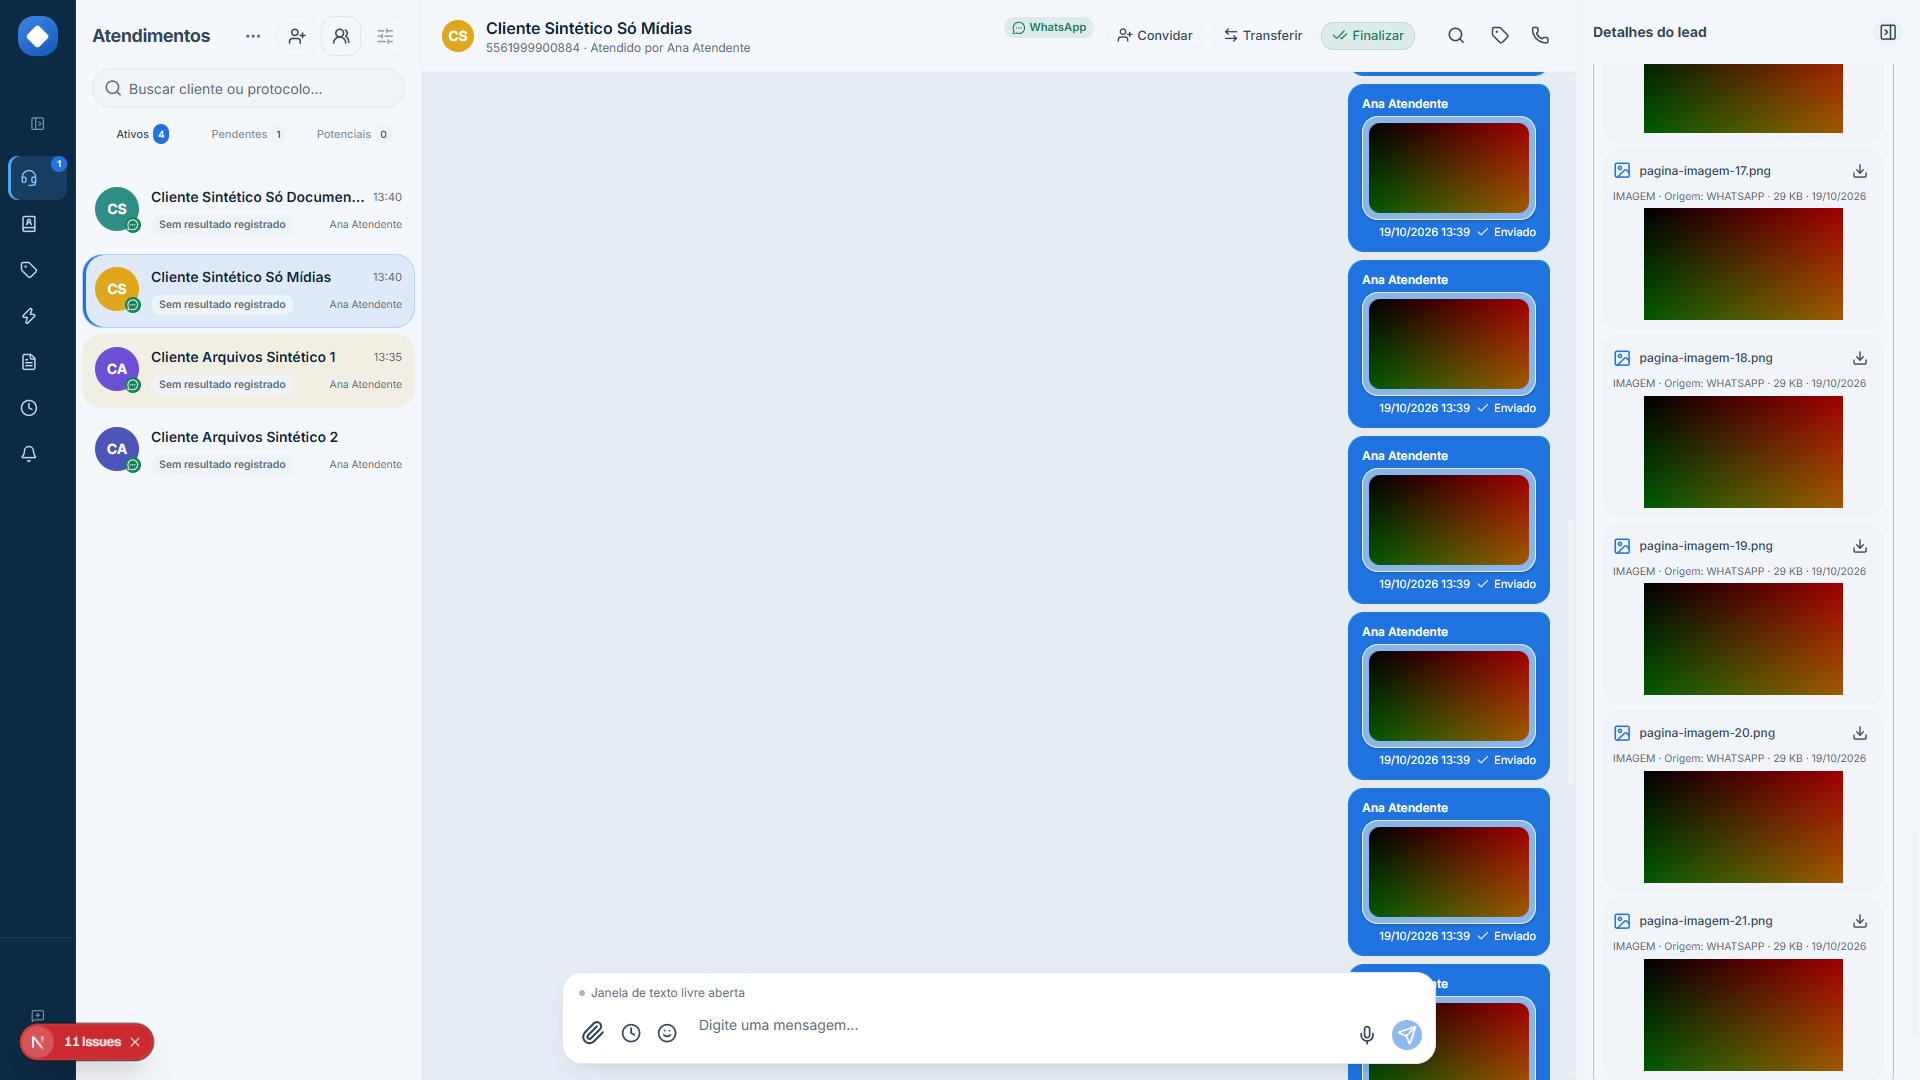
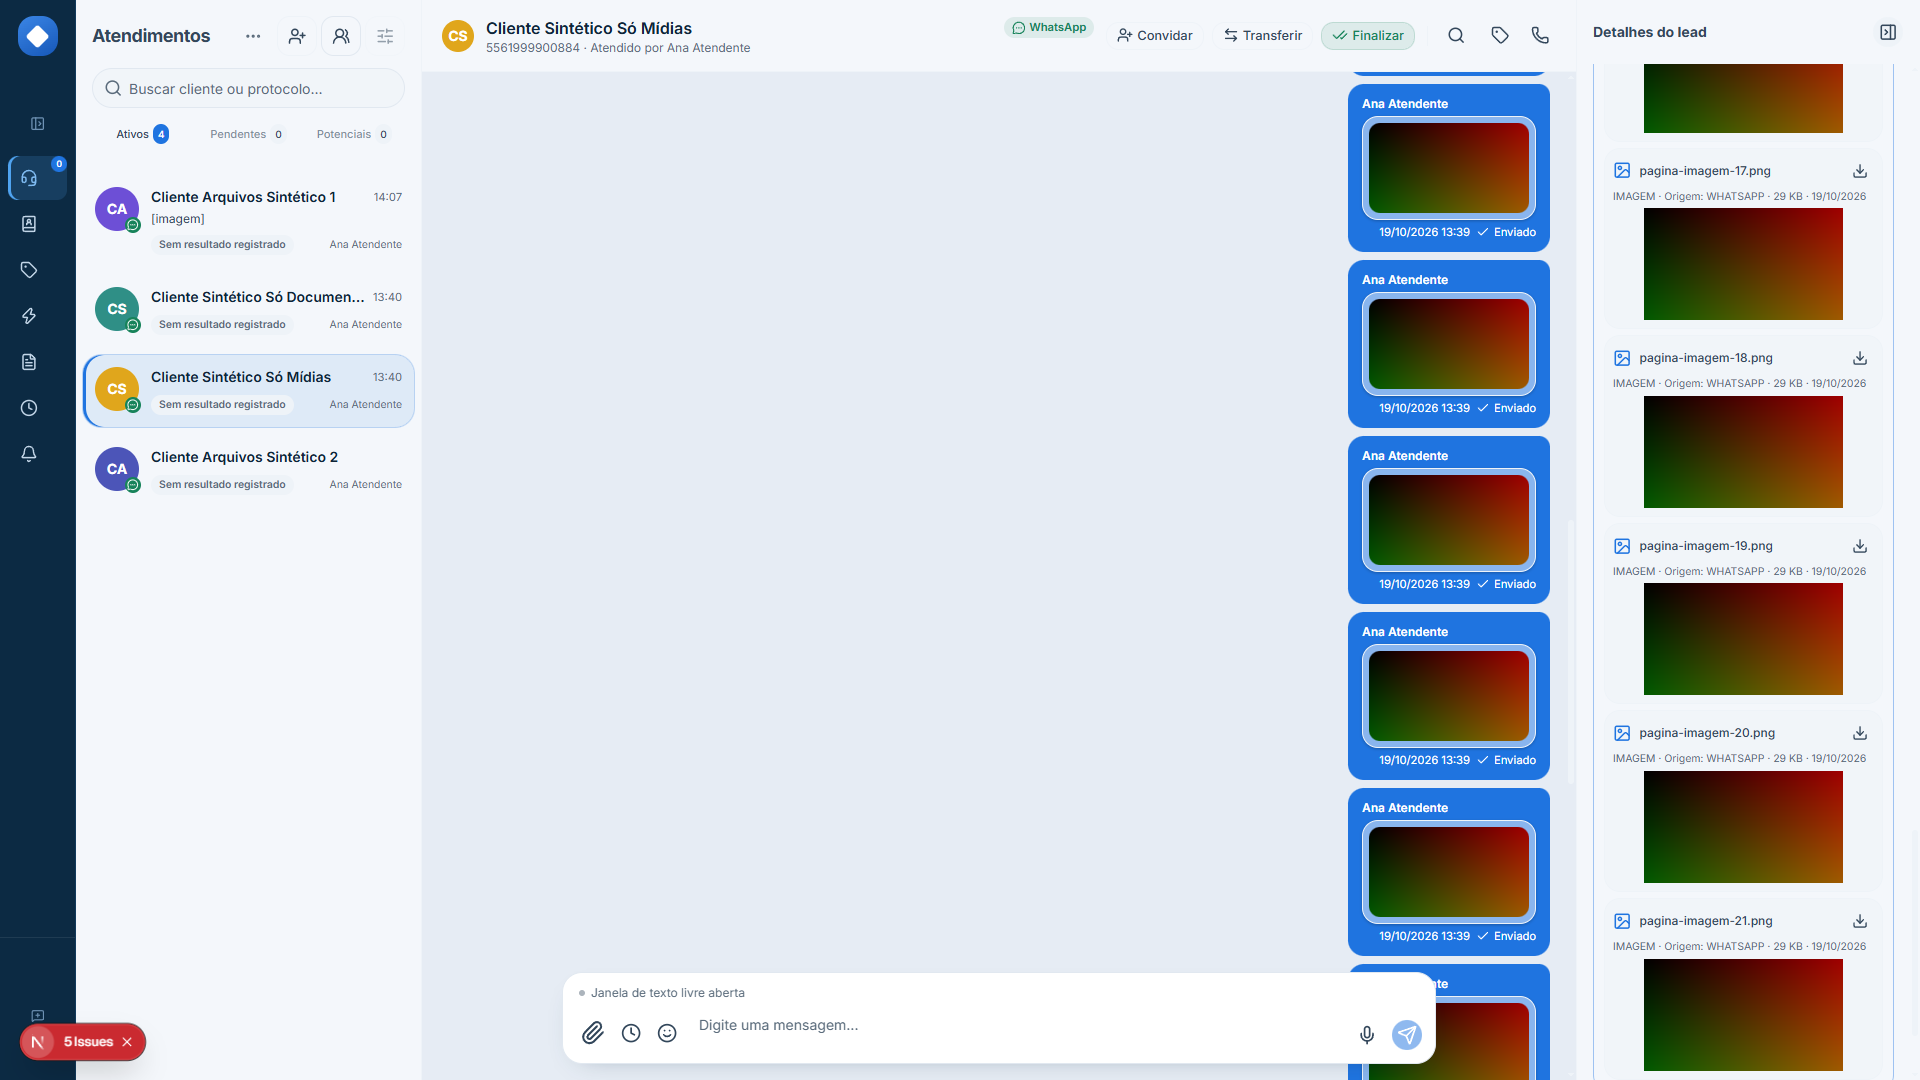
test(atendimentos): melhorar capturas dos estados vazios

Changed region(s): [[0.0312, 0.1528, 0.2188, 0.4583], [0.0312, 0.9472, 0.0938, 0.9778]]

diff --git a/docs/evidencias/ficha-midias-documentos-20261019/README.md b/docs/evidencias/ficha-midias-documentos-20261019/README.md
@@ -43,6 +43,8 @@ Fonte computada `Inter, "Inter Fallback", Inter, sans-serif`, `document.fonts.re
 zoom/DPR 1. Nenhuma alteração de CSS/fonte/layout para produzir as capturas. Não houve
 overflow horizontal nas larguras 1920, 1280 e 390 px. As capturas incluem a interface real
 do modo de desenvolvimento, não prometem ausência de avisos no console.
+Na última rodada de vazios, o indicador de issues do Next foi recolhido pelo próprio botão
+da ferramenta para não sobrepor o texto no celular; nenhum alerta do CRM ou estilo foi ocultado.
 
 | Cenário | Evidência |
 |---|---|
